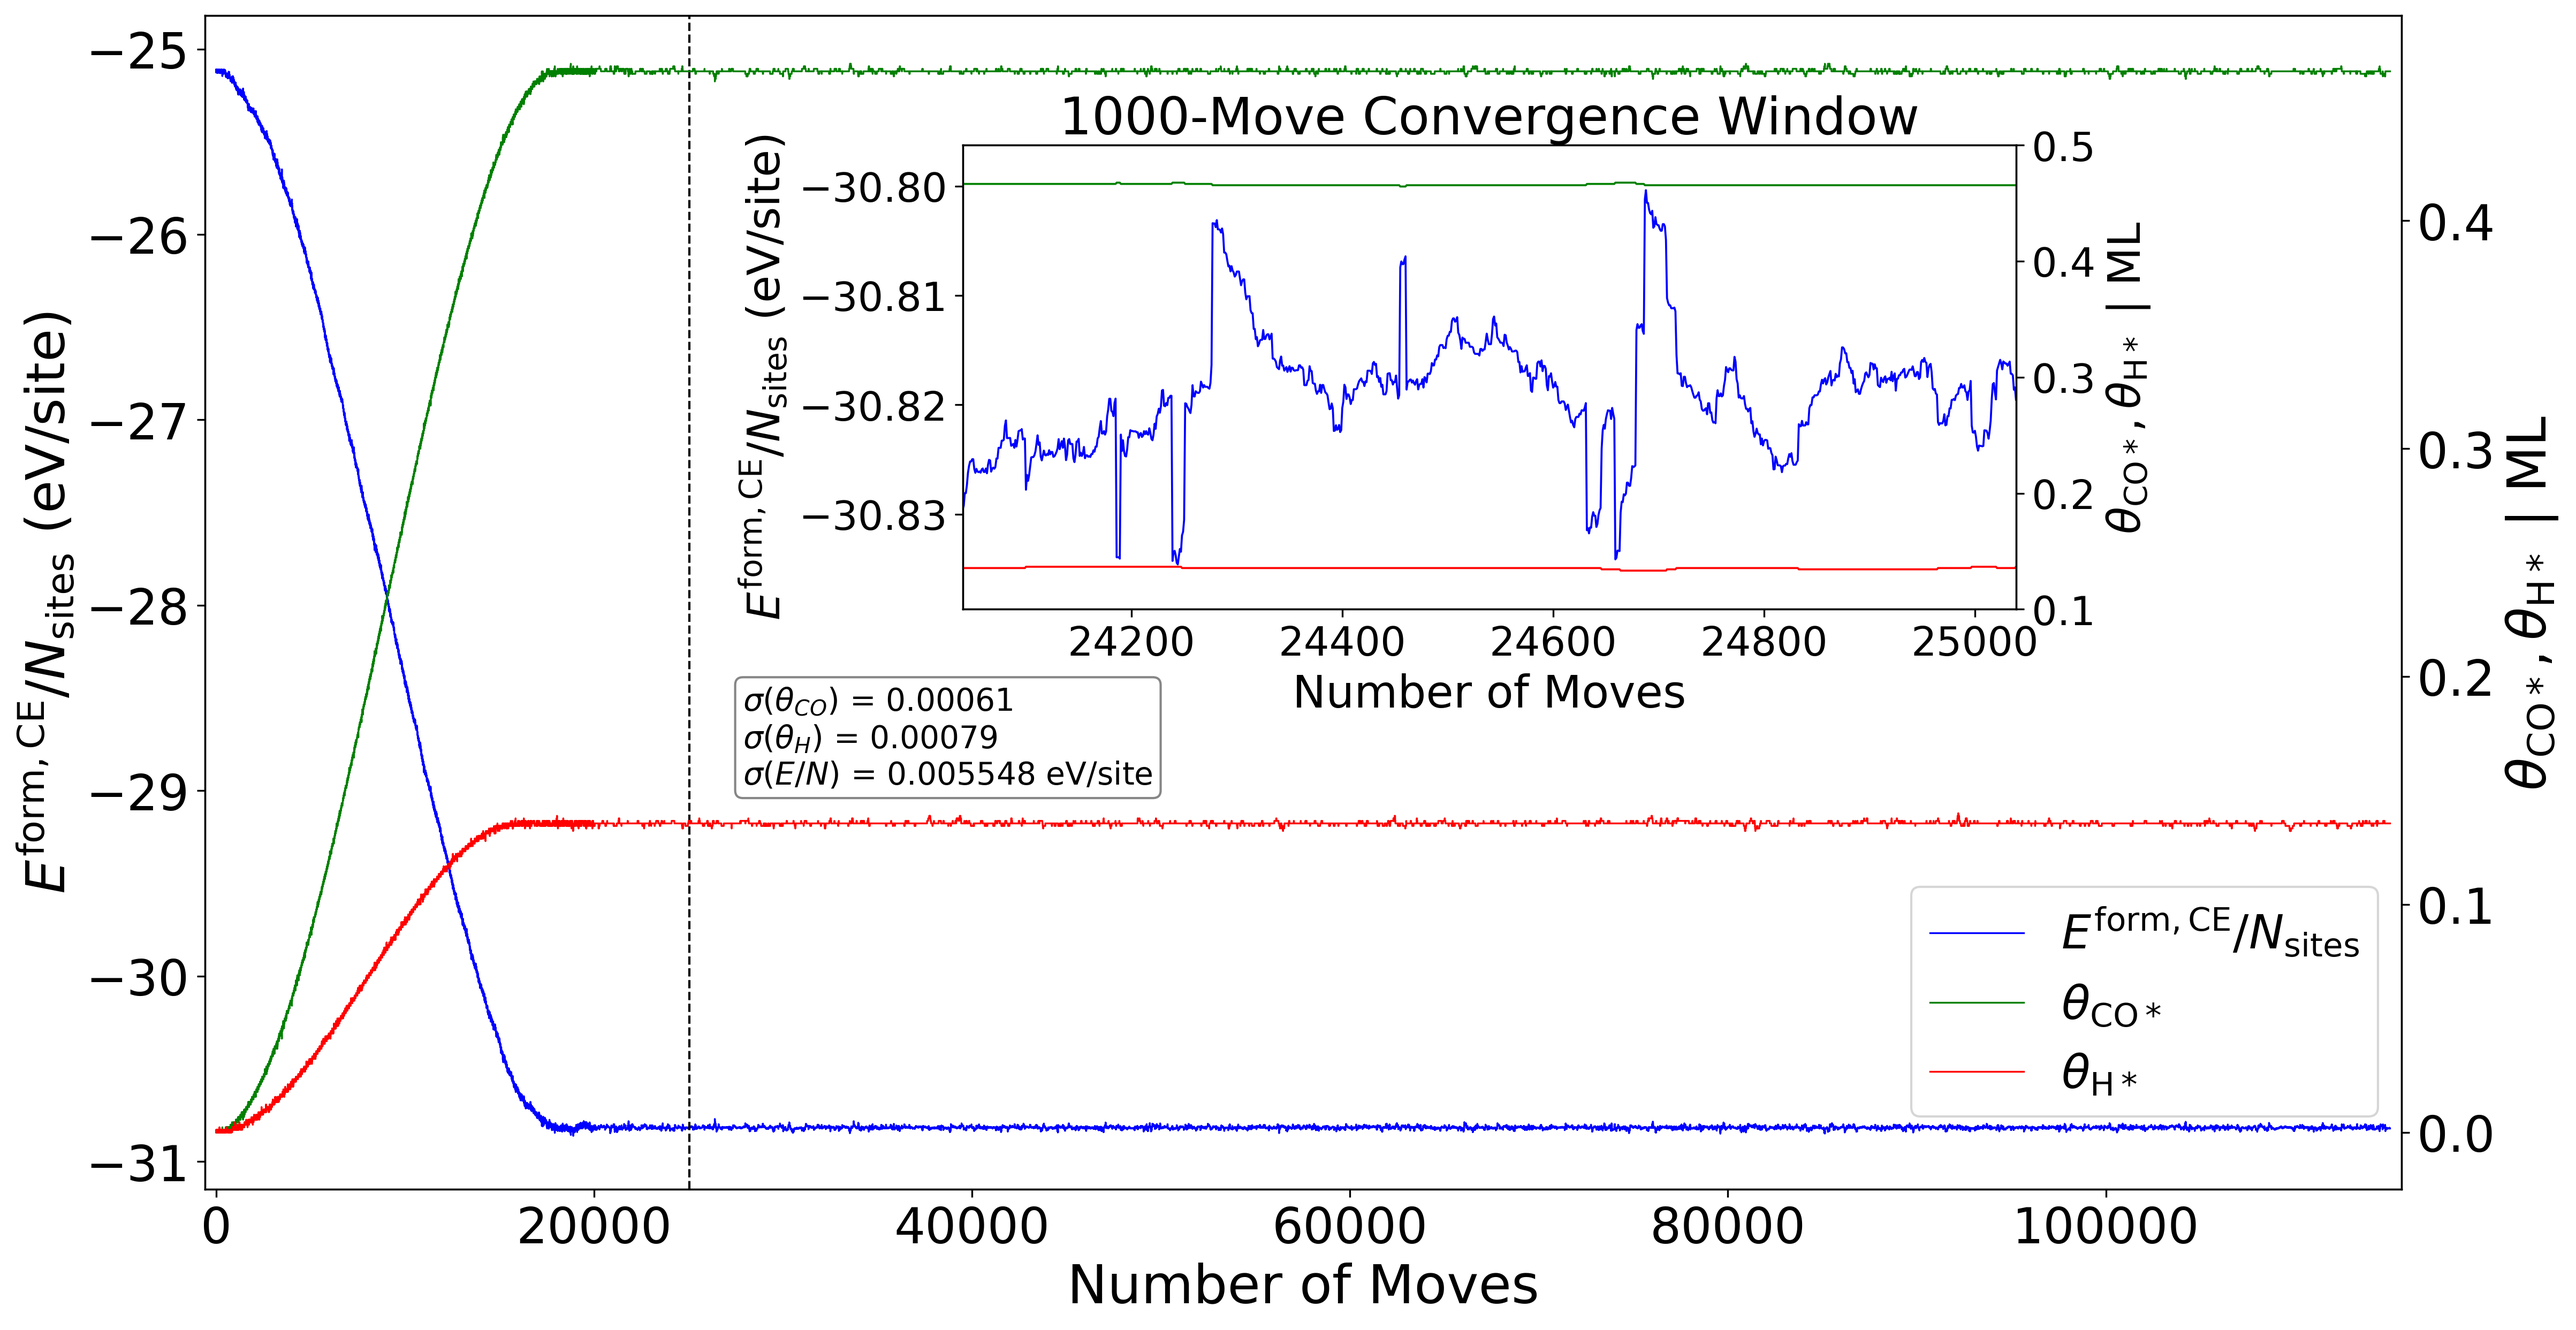
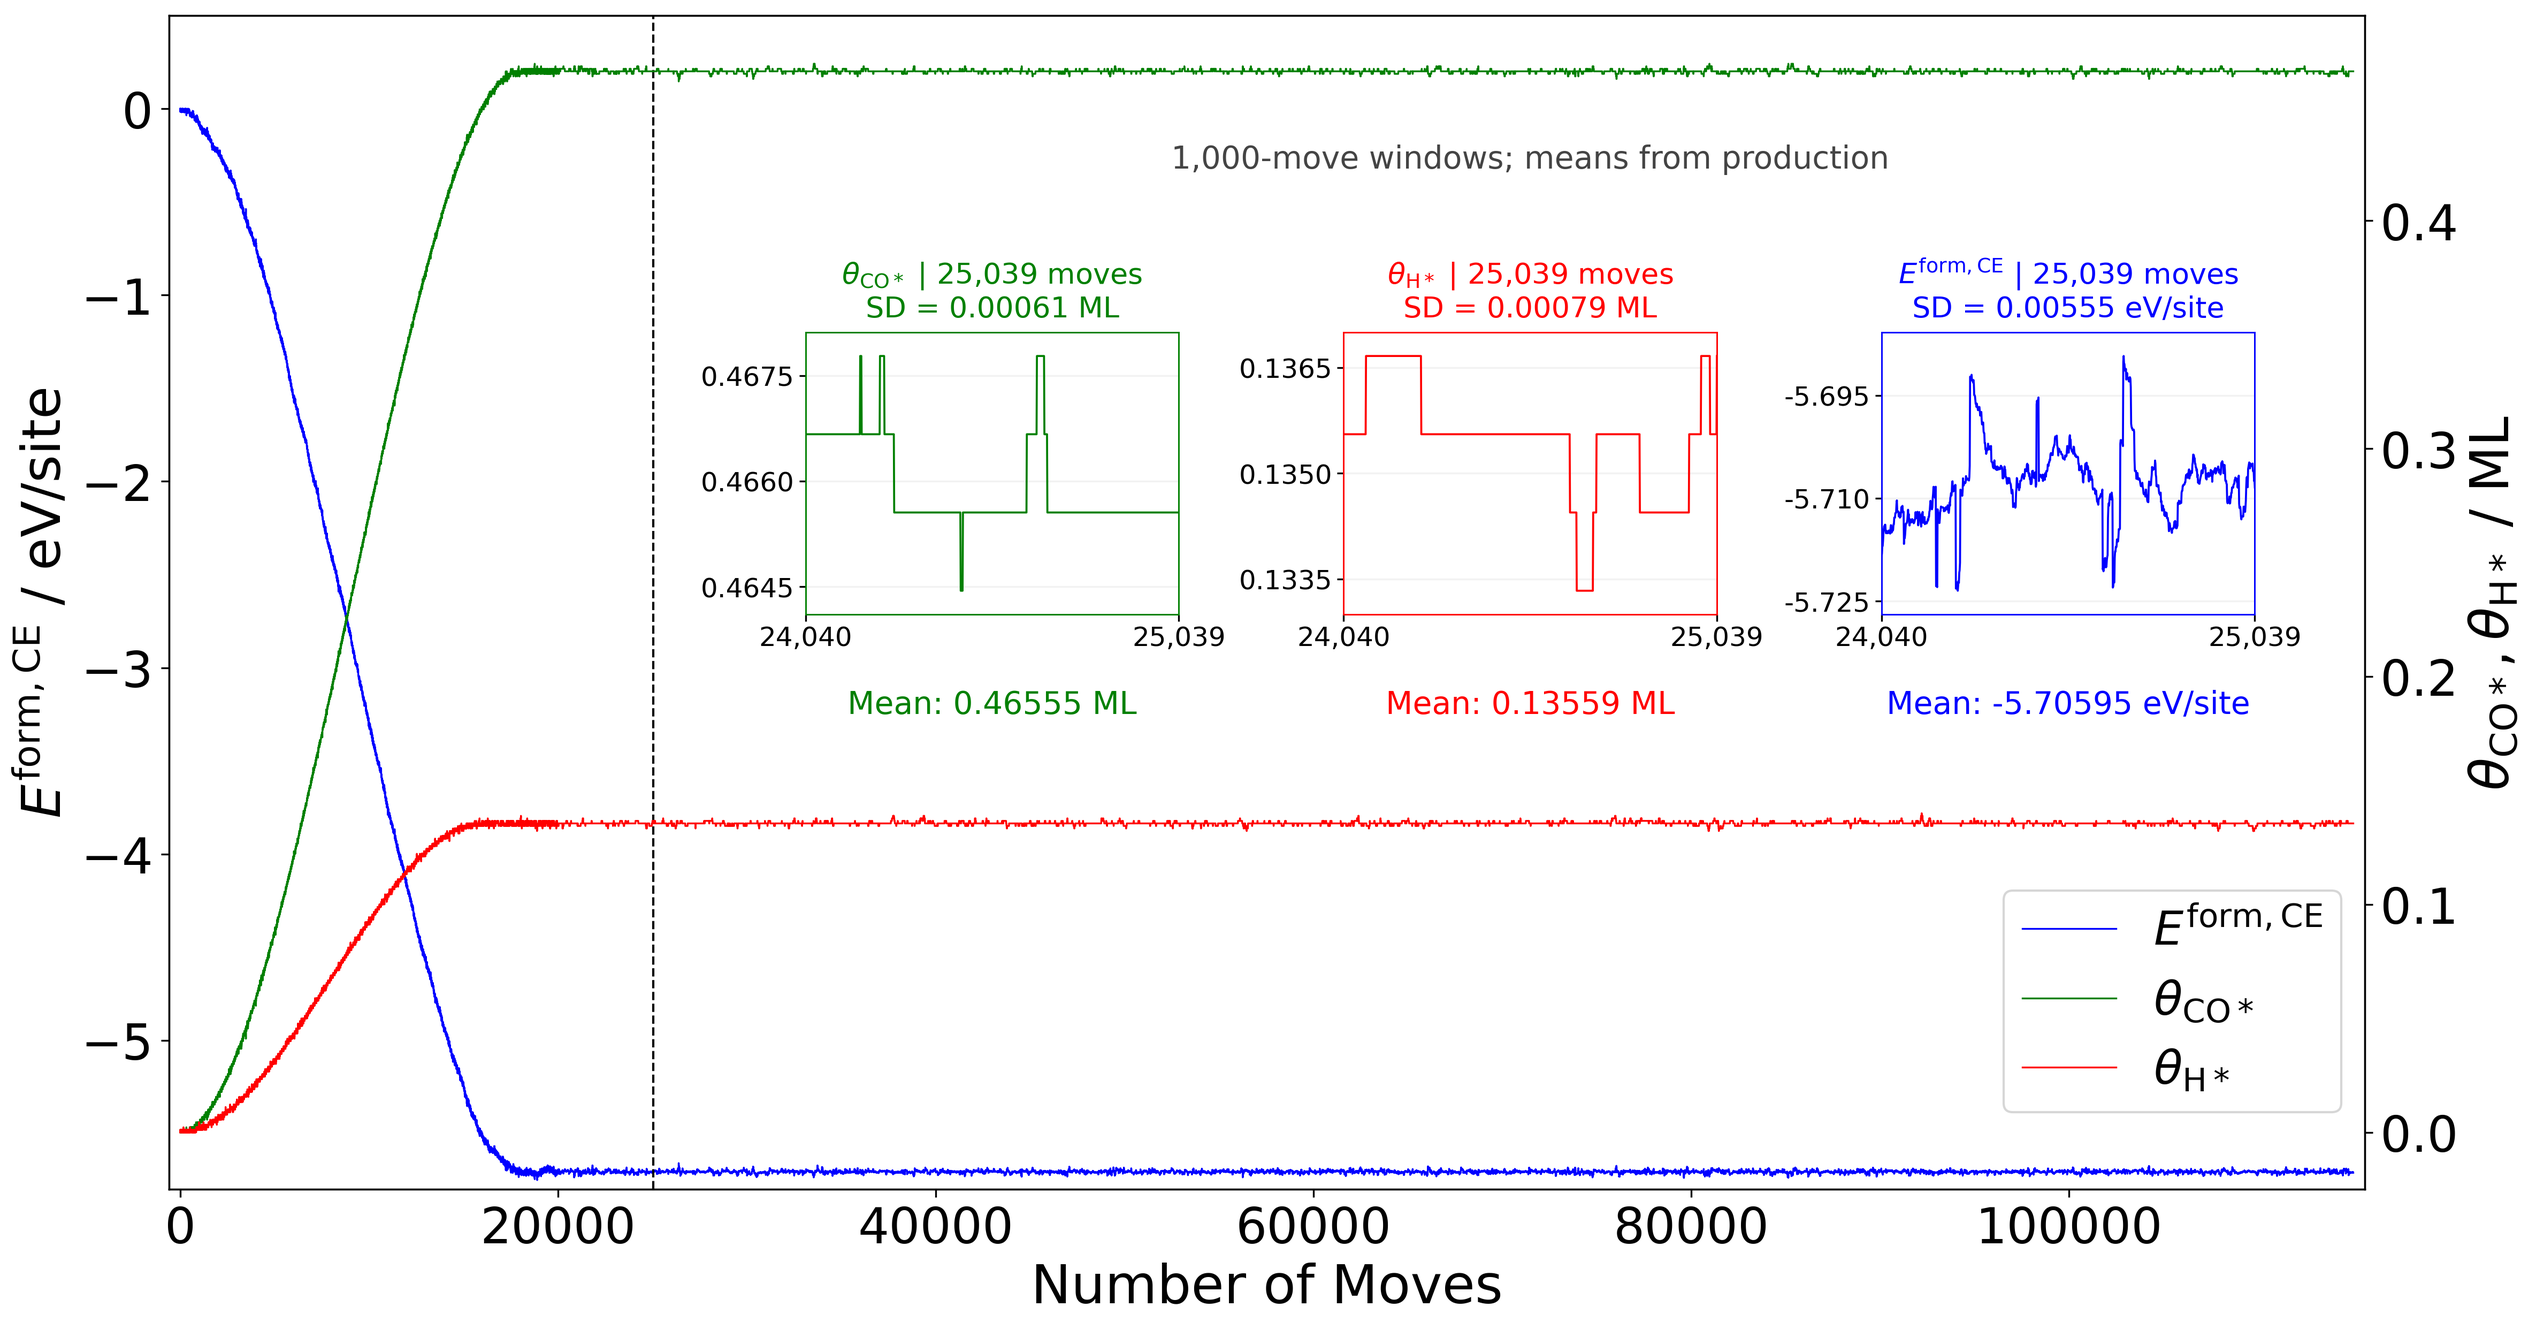
Match Figure S4 convergence insets to Figure S5 style

diff --git a/FIGURE_S4/FIGURE_S4_PLOTTER.py b/FIGURE_S4/FIGURE_S4_PLOTTER.py
@@ -3,6 +3,7 @@ from pathlib import Path
 
 import numpy as np
 import matplotlib.pyplot as plt
+from matplotlib.ticker import FuncFormatter, FormatStrFormatter, MaxNLocator
 
 
 # ============================================================
@@ -28,9 +29,13 @@ H_COLOR = "red"
 MAIN_LINEWIDTH = 0.8
 INSET_LINEWIDTH = 0.9
 
-# Inset location in figure-relative coordinates:
+# Inset locations in main-axis-relative coordinates:
 # [left, bottom, width, height]
-INSET_POSITION = [0.37, 0.535, 0.41, 0.34]
+INSET_POSITIONS = [
+    [0.29, 0.49, 0.17, 0.24],
+    [0.535, 0.49, 0.17, 0.24],
+    [0.78, 0.49, 0.17, 0.24],
+]
 
 
 # ============================================================
@@ -153,79 +158,62 @@ ax1.legend(
 
 
 # ============================================================
-# Inset: 1000-move convergence window
+# Insets: separate convergence windows, matching Figure S5
 # ============================================================
 
-axins = fig.add_axes(INSET_POSITION)
-axins2 = axins.twinx()
+production_mask = phase == "production"
 
-axins.plot(
-    conv_steps,
-    conv_energy,
-    color=ENERGY_COLOR,
-    lw=INSET_LINEWIDTH
-)
 
-axins2.plot(
-    conv_steps,
-    conv_co,
-    color=CO_COLOR,
-    lw=INSET_LINEWIDTH
-)
+def add_convergence_inset(values, mean, sd, label, color, unit, bounds):
+    inset = ax1.inset_axes(bounds)
+    inset.plot(conv_steps, values, color=color, linewidth=INSET_LINEWIDTH)
+    inset.set_xlim(conv_start, conv_end)
 
-axins2.plot(
-    conv_steps,
-    conv_h,
-    color=H_COLOR,
-    lw=INSET_LINEWIDTH
-)
+    value_min, value_max = values.min(), values.max()
+    value_range = value_max - value_min
+    if value_range == 0:
+        value_range = 1.0 / n_sites
+    inset.set_ylim(value_min - 0.10 * value_range, value_max + 0.10 * value_range)
+    inset.set_xticks([conv_start, conv_end])
+    inset.xaxis.set_major_formatter(FuncFormatter(lambda value, _: f"{value:,.0f}"))
+    inset.yaxis.set_major_locator(MaxNLocator(nbins=3, min_n_ticks=2))
+    inset.yaxis.set_major_formatter(FormatStrFormatter("%.4f" if unit == "ML" else "%.3f"))
+    inset.tick_params(axis="both", labelsize=12, pad=2, length=3)
+    inset.grid(alpha=0.16)
+    for spine in inset.spines.values():
+        spine.set_visible(True)
+        spine.set_linewidth(0.7)
+        spine.set_color(color)
+    inset.set_title(
+        f"{label} | {conv_end:,.0f} moves\nSD = {sd:.5f} {unit}",
+        fontsize=13, color=color, pad=7,
+    )
+    ax1.text(
+        bounds[0] + bounds[2] / 2, 0.40,
+        f"Mean: {mean:.5f} {unit}",
+        ha="center", va="bottom", color=color, fontsize=14,
+        transform=ax1.transAxes,
+    )
 
-axins.set_title("1000-Move Convergence Window", fontsize=23, pad=5)
 
-axins.set_xlabel("Number of Moves", fontsize=20)
-axins.set_ylabel(
-    r"$E^{\mathrm{form,CE}}$ / eV/site",
-    fontsize=20
-)
-axins2.set_ylabel(
-    r"$\theta_{\mathrm{CO}*}, \theta_{\mathrm{H}*}$ / ML",
-    fontsize=20
-)
-
-axins.tick_params(axis="both", labelsize=18)
-axins2.tick_params(axis="y", labelsize=18)
-
-# Match the visual scale in the reference plot closely
-energy_pad = max(0.003, 0.12 * (conv_energy.max() - conv_energy.min()))
-axins.set_ylim(
-    conv_energy.min() - energy_pad,
-    conv_energy.max() + energy_pad
-)
-
-axins2.set_ylim(0.10, 0.50)
-axins.set_xlim(conv_start, conv_end)
-
-stats_text = (
-    rf"$\sigma(\theta_{{CO}})$ = {sd_co:.5f}" + "\n"
-    rf"$\sigma(\theta_{{H}})$ = {sd_h:.5f}" + "\n"
-    rf"$\sigma(E/N)$ = {sd_energy:.6f} eV/site"
-)
+for values, full_values, sd, label, color, unit, bounds in zip(
+    [conv_co, conv_h, conv_energy],
+    [co_cov, h_cov, energy_per_site],
+    [sd_co, sd_h, sd_energy],
+    [r"$\theta_{\mathrm{CO}*}$", r"$\theta_{\mathrm{H}*}$", r"$E^{\mathrm{form,CE}}$"],
+    [CO_COLOR, H_COLOR, ENERGY_COLOR],
+    ["ML", "ML", "eV/site"],
+    INSET_POSITIONS,
+):
+    add_convergence_inset(
+        values, np.mean(full_values[production_mask]), sd,
+        label, color, unit, bounds,
+    )
 
 ax1.text(
-    0.245,
-    0.34,
-    stats_text,
-    transform=ax1.transAxes,
-    fontsize=14,
-    va="bottom",
-    ha="left",
-    linespacing=1.25,
-    bbox=dict(
-        boxstyle="round,pad=0.25",
-        facecolor="white",
-        edgecolor="gray",
-        alpha=0.95
-    )
+    0.62, 0.87,
+    f"{len(conv_steps):,}-move windows; means from production",
+    ha="center", transform=ax1.transAxes, fontsize=14, color="#444444",
 )
 
 
